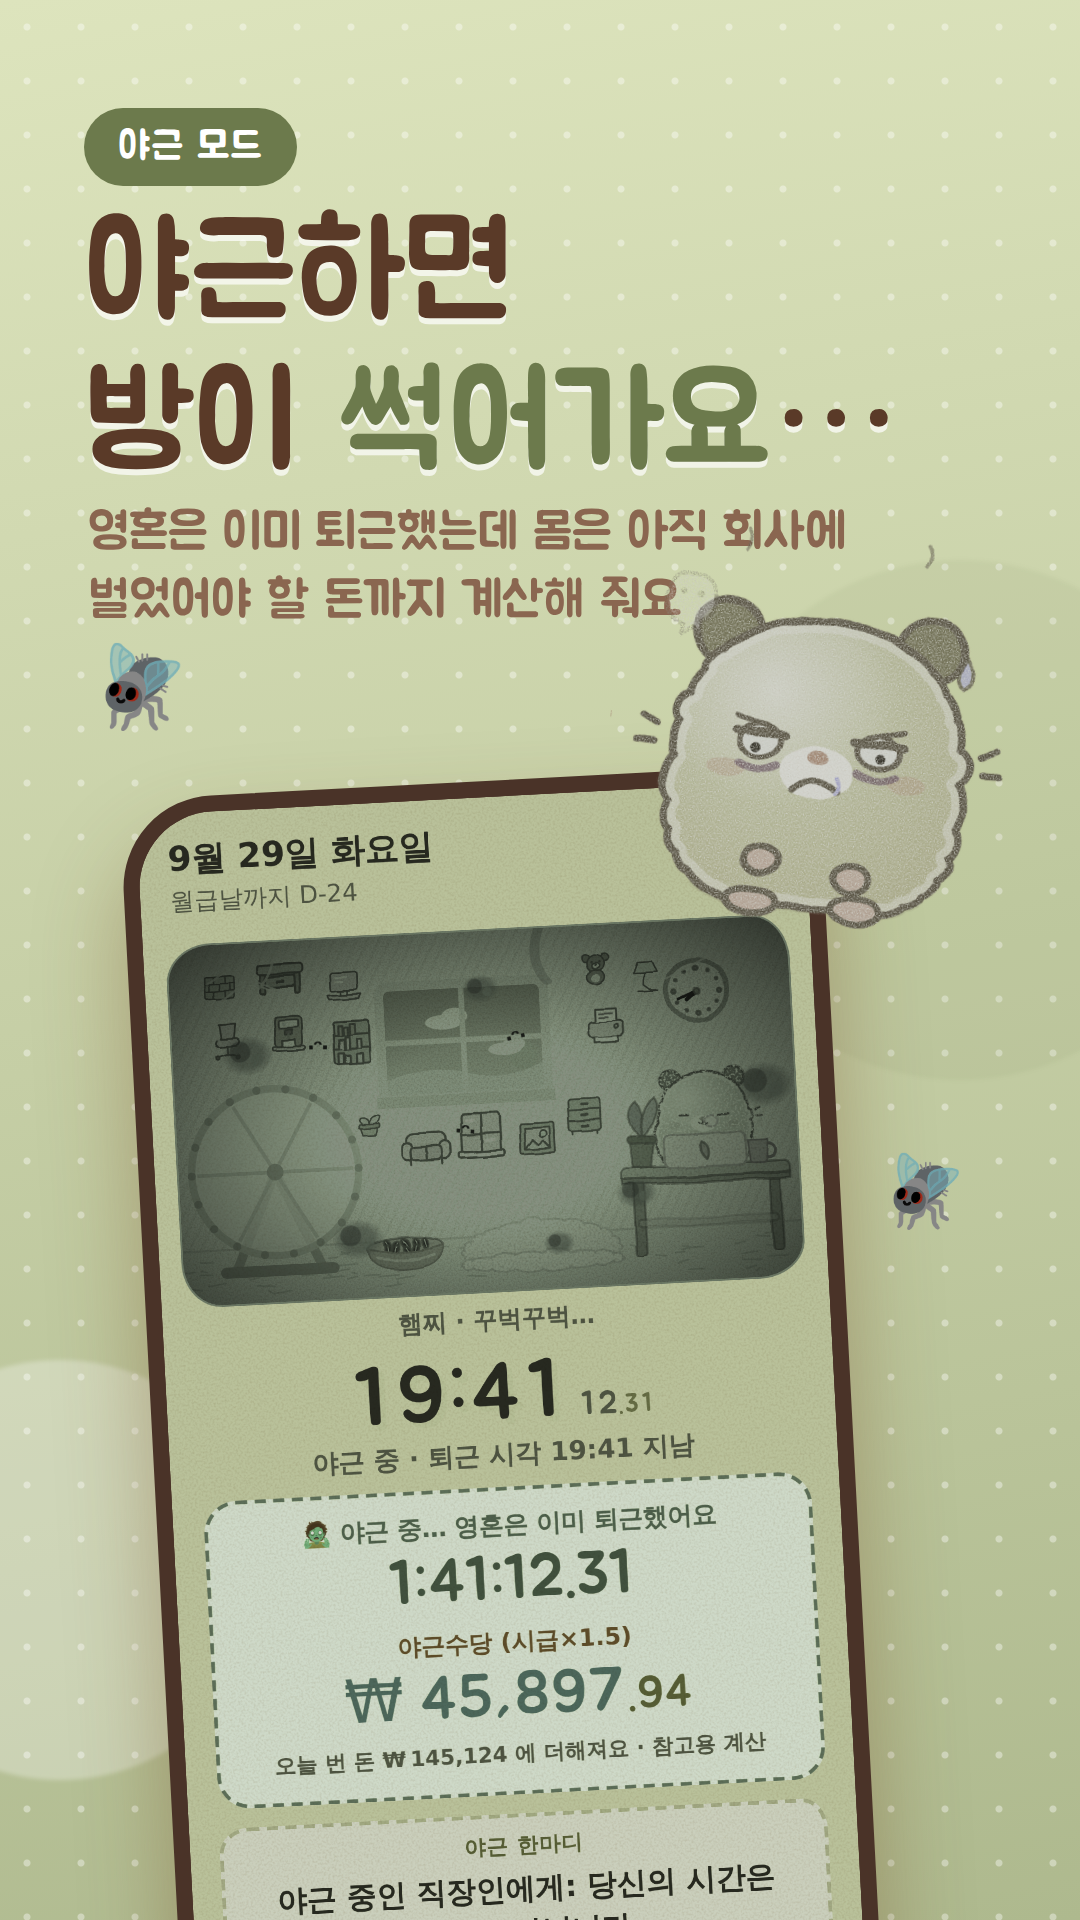
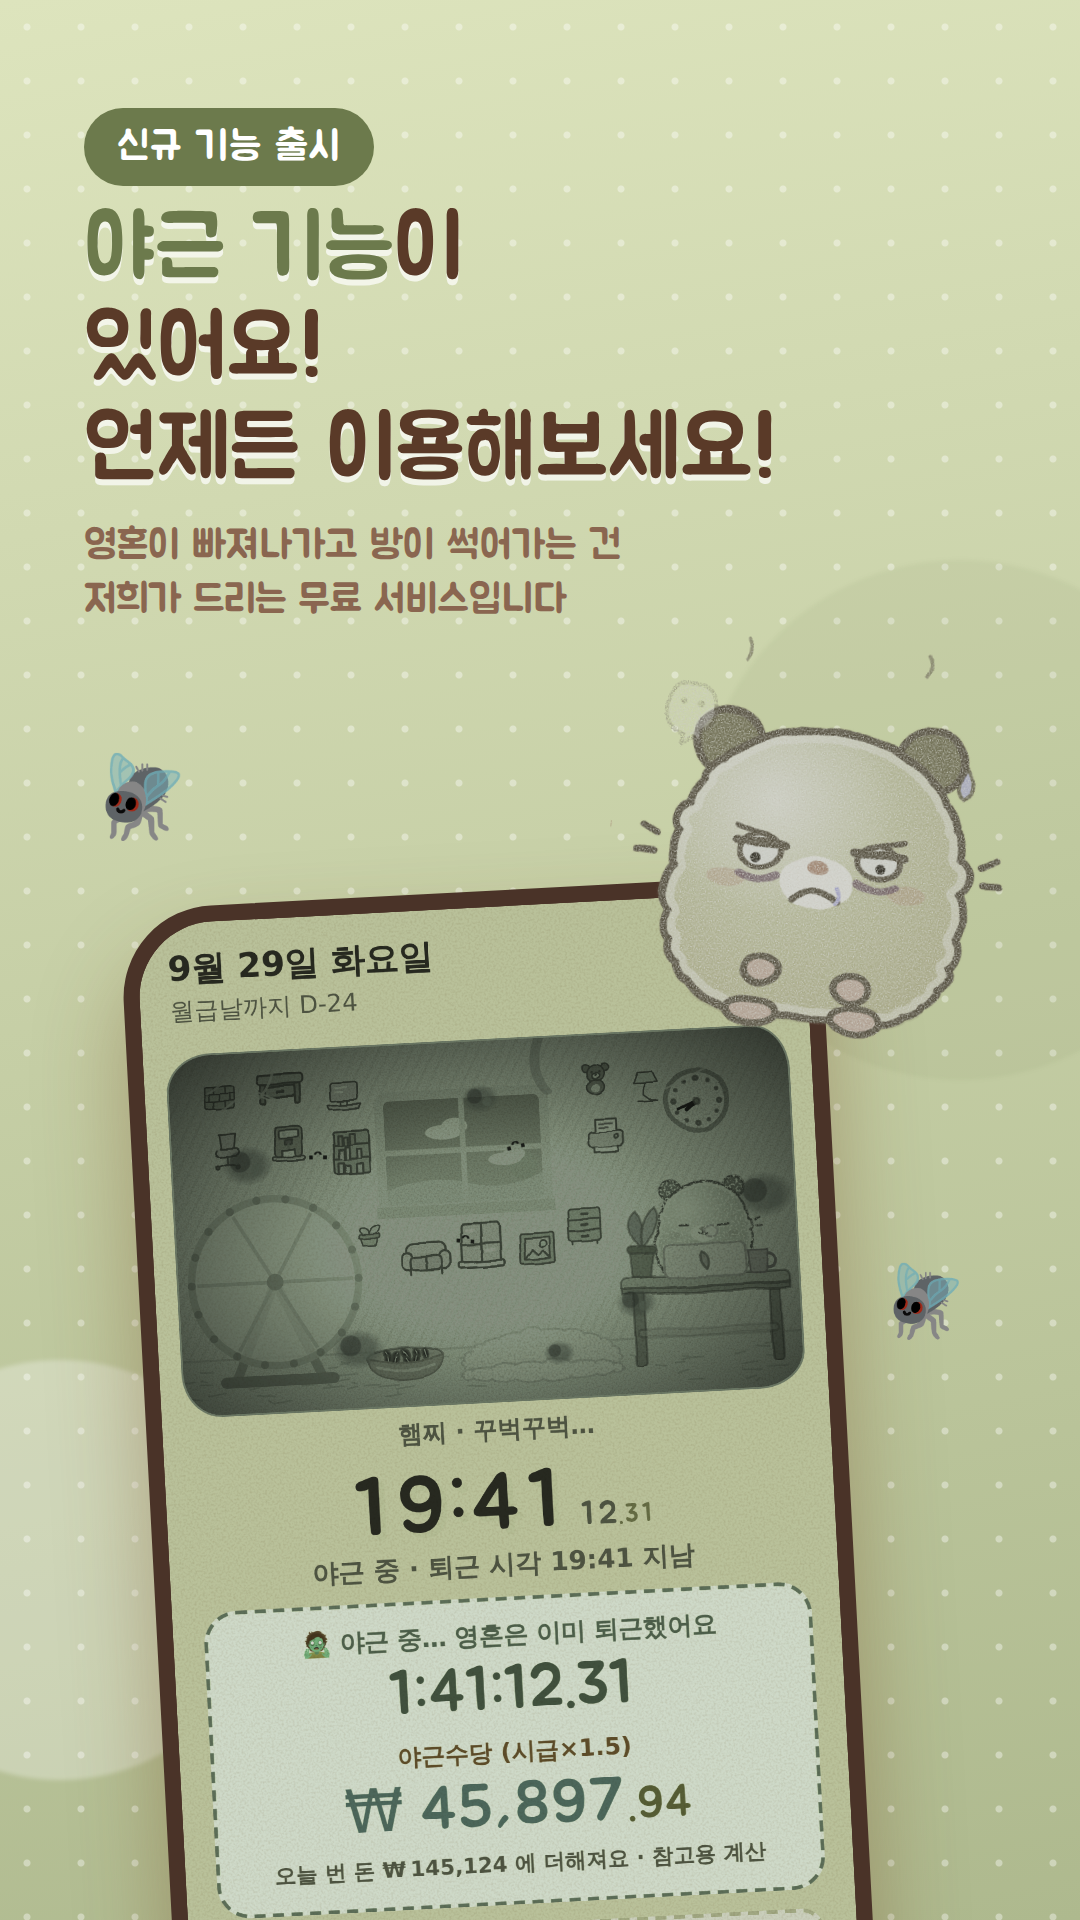
홍보 이미지 문구를 사내 공지 말투(살짝 얄미운 톤)로 수정
Claude-Session: https://claude.ai/code/session_013ZkyNmJ4H36xCyz94C7hAs

Changed region(s): [[0.0611, 0.0312, 0.9167, 1.0], [0.825, 0.5938, 0.8861, 0.7188]]

diff --git a/store/listing-ko.md b/store/listing-ko.md
@@ -64,13 +64,13 @@ https://baebae6ae.github.io/chool_geun/privacy.html
 - ※ 광고(AdMob)를 붙이는 업데이트부터는 "기기 ID 수집, 광고 목적, 제3자 공유"로 바꿔야 함
 
 ## 스크린샷 순서 제안 (1080×1920, 홍보 문구가 들어간 이미지)
-1. 01-home — 월급이 촤르르 쌓여요
-2. 02-characters — 캐릭터 4종
-3. 03-events — 직장인 이벤트 50종
-4. 04-overtime — 야근하면 방이 썩어가요
-5. 05-office — 사무실이 하나씩 채워져요
-6. 06-customize — 사무용품 꾸미기
-7. 07-share-card — 날마다 다른 오늘의 카드
-8. 08-clock-landscape — 눕히면 탁상시계
+1. 01-home — 열심히 하신 만큼 1/100초 단위로 보여드려요!
+2. 02-characters — 저희 회사는 동물 4종이 대신 일해요!
+3. 03-events — 깜짝 이벤트 50종! 기대하세요
+4. 04-overtime — 야근 기능이 있어요! 언제든 이용해보세요!
+5. 05-office — 사무실이 점점 좋아집니다!
+6. 06-customize — 복장은 자유! 단, 사무용품으로
+7. 07-share-card — 오늘도 수고 많으셨죠? 카드로 자랑하세요
+8. 08-clock-landscape — 퇴근 시간은 이렇게 잘 보이는데
 
 그래픽 이미지(1024×500): store/feature-graphic-1024x500.png, 앱 아이콘(512): store/icon-512.png
